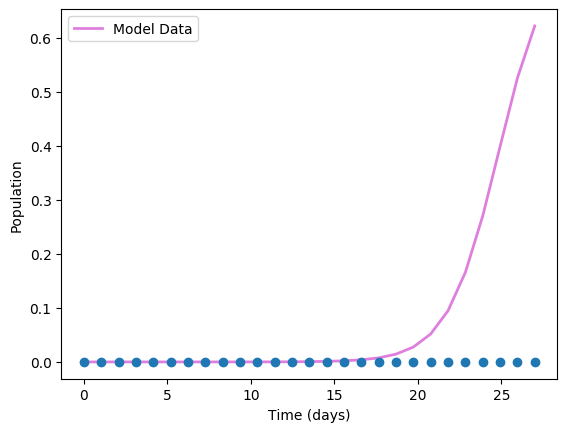
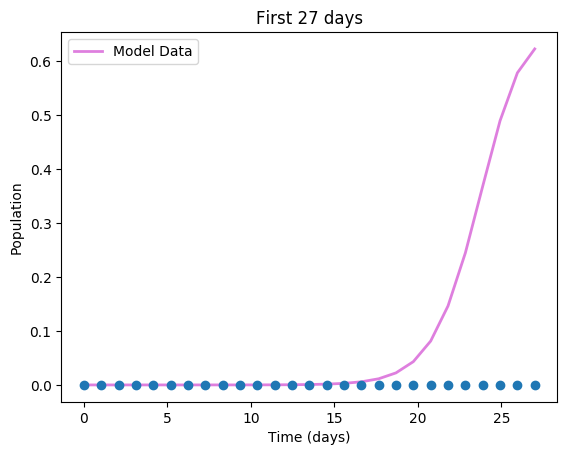
added temperature stuff

diff --git a/finalcode2.py b/finalcode2.py
@@ -44,116 +44,148 @@ Idata = Idata/P #scale down to be proportion
 S = np.zeros(dataLength)# initalize blank datasets
 I = np.zeros(dataLength)
 R = np.zeros(dataLength)
-S[0] = S0 # all except one are susceptible
+S[0] = S0 # all except one are susceptile
 I[0] = I0 # based on one case
 R[0] = R0 # all others fit in Recovered category
 # two initial guesses for what beta and gamma might be
+
 beta, gamma = 0.6, 1/12 # two initial guesses for what beta and gamma might be
+
 tau = 0 # because first case is when time=0
 fm = 0 # initialize the lsr variable
-T = 100 # intial temperature,arbitratily chosen
-consec = 0
-bestBeta = []
-bestGamma = []
-bestFit = []
+T = [100]*1001
+alpha = 0.7
+for j in range(0, 1000):
+    T[j+1] = T[j] *(alpha**(j+1))
+plt.figure()  # open the figure
+fig,ax = plt.subplots()
+iteration = np.linspace(0,1001, 1001) # iteration vector
+ax.plot(iteration[0:15], T[0:15]) # plot 
+ax.set_xlabel('Iteration') # set label, legend, title
+ax.set_ylabel('Temperature')
+plt.title('Temperature v Iteration')
+plt.savefig('Temp Graph.png', bbox_inches ='tight') # save the graph
+
+
+consec = 0 # variable to keep track of consecutive failutes
+bestBeta = [] # empty vector to add on the best betas
+bestGamma = [] # empty vector to add on the best gammas
+bestFit = [] # empty vector to add on the lowest LSE
+
+
+    
+
 
 for j in range(1000):
-    if consec < 700: # going thru 10000 trials
-        ret = odeint(deriv, y0, t, args=(beta, gamma))# add commas for more parameters
-        S, I, R = ret.T
-        for i in range(dataLength -1):
-            fm += abs((I.item(i+1)-Idata.item(i+1))**2) # square of the error of the fitted model
-        deltaBeta = .05 # step size
-        deltaGamma = .001 # step size
-        betaOrGamma = random.random() # number btwn 0 or 1 to see which step you will do
-        fhat = 0 # initalizing lsr for new beta or gamma value
-        if betaOrGamma< 0.25:
-            betaNew = beta + deltaBeta # add to beta
-            ret = odeint(deriv, y0, t, args=(betaNew, gamma))# add commas for more parameters
-            S, I, R = ret.T
-            for i in range(dataLength -1):
-                fhat += abs((I.item(i+1)-Idata.item(i+1))**2) # square of the error of the neighbors model
-                if fhat < fm:
-                    A = 1 # ACCEPT
-                    consec = 0
-                else:
-                    A = math.exp((fm-fhat)/T) # maybe accept
-                acceptanceProbability = random.random() # randomly chose acceptance probability
-                if acceptanceProbability< A:
-                    fm = fhat # then we have a new lsr
-                    beta = betaNew # and a new beta Value
-                    bestBeta.append(beta)
-                    bestGamma.append(gamma)
-                    bestFit.append(fm)
-                else:
-                    consec +=1
-        elif 0.5>betaOrGamma> 0.25 and beta > 0:  #added to remove all the bad negative estimates
-            betaNew = beta - deltaBeta # then subtract from beta
-            ret = odeint(deriv, y0, t, args=(betaNew, gamma))# add commas for more parameters
-            S, I, R = ret.T
-            for i in range(dataLength - 1):
-                fhat += abs((I.item(i+1)-Idata.item(i+1))**2) # square of the error of the neighbors model
-                if fhat < fm:
-                    A = 1 # then ACCEPT
-                else:
-                    A = math.exp((fm-fhat)/T) # THEN maybe accept
-                acceptanceProbability = random.random() # randomly chose acceptance probability
-                if acceptanceProbability< A:
-                    fm = fhat # adopt new lsr
-                    beta = betaNew # and a new beta value
-                    consec = 0
-                    bestBeta.append(beta)
-                    bestGamma.append(gamma)
-                    bestFit.append(fm)
-                else:
-                    consec +=1
-        elif 0.75>betaOrGamma> 0.5:
-            gammaNew = gamma + deltaGamma  # then add to gamma
-            ret = odeint(deriv, y0, t, args=(beta, gammaNew))# add commas for more parameters
-            S, I, R = ret.T
-            for i in range(dataLength - 1):
-                fhat += abs((I.item(i+1)-Idata.item(i+1))**2) # square of the error of the neighbors model
-                if fhat < fm:
-                    A = 1 # accept
-                    consec = 0
-                else:
-                    A = math.exp((fm-fhat)/T) # calculation of A is done wrong
-                acceptanceProbability = random.random() # randomly chose acceptance probability
-                if acceptanceProbability< A:
-                    fm = fhat
-                    gamma = gammaNew
-                    bestBeta.append(beta)
-                    bestGamma.append(gamma)
-                    bestFit.append(fm)
-                else:
-                    consec +=1
-        elif 1>betaOrGamma> 0.75 and gamma > 0: #added to remove all the bad negative estimates
-            gammaNew = gamma - deltaGamma # then subtract from gamma
-            ret = odeint(deriv, y0, t, args=(beta, gammaNew))# add commas for more parameters
-            S, I, R = ret.T
-            for i in range(dataLength - 1):
-                fhat += abs((I.item(i+1)-Idata.item(i+1))**2) # square of the error of the neighbors model
-                if fhat < fm:
-                    A = 1
-                    consec = 0
-                else:
-                    A = math.exp((fm-fhat)/T) # maybe accept, calculation of A is done wrong
-                acceptanceProbability = random.random() # randomly chose acceptance probability
-                if acceptanceProbability< A:
-                    fm = fhat # adopt new lsr and new gamma value
-                    gamma = gammaNew
-                    bestBeta.append(beta)
-                    bestGamma.append(gamma)
-                    bestFit.append(fm)
-                else:
-                    consec +=1
+    if T[j] > 0:
+        if consec < 700: # going thru 10000 trials
+            ret = odeint(deriv, y0, t, args=(beta, gamma)) # evaluate sir using the inital, or newest best guess
+            S, I, R = ret.T # store S,I, R
+            for i in range(dataLength -1): #calculate LSE for all of the data points, excluding the first one
+                fm += abs((I.item(i+1)-Idata.item(i+1))**2) # square of the error of the fitted model
+            deltaBeta = .05 # step size
+            deltaGamma = .001 # step size
+            betaOrGamma = random.random() # number btwn 0 or 1 to see which step you will do
+            fhat = 0 # initalizing lsr for new beta or gamma value
+            if betaOrGamma< 0.25:
+                betaNew = beta + deltaBeta # add to beta
+                ret = odeint(deriv, y0, t, args=(betaNew, gamma))# evaluate sir using newest beta value
+                S, I, R = ret.T # store S,I,R
+                for i in range(dataLength -1): # calculate LSE for all of the data points, excluding the first one
+                    fhat += abs((I.item(i+1)-Idata.item(i+1))**2) # square of the error of the neighbors model
+                    if fhat < fm:
+                        A = 1 # ACCEPT
+                        consec = 0
+                    else:
+                        A = math.exp((fm-fhat)/T[j]) # maybe accept
+                    acceptanceProbability = random.random() # randomly chose acceptance probability
+                    if acceptanceProbability< A:
+                        fm = fhat # then we have a new lsr
+                        beta = betaNew # and a new beta Value
+                        bestBeta.append(beta)
+                        bestGamma.append(gamma)
+                        bestFit.append(fm)
+                    else:
+                        consec +=1
+            elif 0.5>betaOrGamma> 0.25 and beta > 0:  #added to remove all the bad negative estimates
+                betaNew = beta - deltaBeta # then subtract from beta
+                ret = odeint(deriv, y0, t, args=(betaNew, gamma))# add commas for more parameters
+                S, I, R = ret.T
+                for i in range(dataLength - 1):
+                    fhat += abs((I.item(i+1)-Idata.item(i+1))**2) # square of the error of the neighbors model
+                    if fhat < fm:
+                        A = 1 # then ACCEPT
+                    else:
+                        A = math.exp((fm-fhat)/T[j]) # THEN maybe accept
+                    acceptanceProbability = random.random() # randomly chose acceptance probability
+                    if acceptanceProbability< A:
+                        fm = fhat # adopt new lsr
+                        beta = betaNew # and a new beta value
+                        consec = 0
+                        bestBeta.append(beta)
+                        bestGamma.append(gamma)
+                        bestFit.append(fm)
+                    else:
+                        consec +=1
+            elif 0.75>betaOrGamma> 0.5:
+                gammaNew = gamma + deltaGamma  # then add to gamma
+                ret = odeint(deriv, y0, t, args=(beta, gammaNew))# add commas for more parameters
+                S, I, R = ret.T
+                for i in range(dataLength - 1):
+                    fhat += abs((I.item(i+1)-Idata.item(i+1))**2) # square of the error of the neighbors model
+                    if fhat < fm:
+                        A = 1 # accept
+                        consec = 0
+                    else:
+                        A = math.exp((fm-fhat)/T[j]) # calculation of A is done wrong
+                    acceptanceProbability = random.random() # randomly chose acceptance probability
+                    if acceptanceProbability< A:
+                        fm = fhat
+                        gamma = gammaNew
+                        bestBeta.append(beta)
+                        bestGamma.append(gamma)
+                        bestFit.append(fm)
+                    else:
+                        consec +=1
+            elif 1>betaOrGamma> 0.75 and gamma > 0: #added to remove all the bad negative estimates
+                gammaNew = gamma - deltaGamma # then subtract from gamma
+                ret = odeint(deriv, y0, t, args=(beta, gammaNew))# add commas for more parameters
+                S, I, R = ret.T
+                for i in range(dataLength - 1):
+                    fhat += abs((I.item(i+1)-Idata.item(i+1))**2) # square of the error of the neighbors model
+                    if fhat < fm:
+                        A = 1
+                        consec = 0
+                    else:
+                        A = math.exp((fm-fhat)/T[j]) # maybe accept, calculation of A is done wrong
+                    acceptanceProbability = random.random() # randomly chose acceptance probability
+                    if acceptanceProbability< A:
+                        fm = fhat # adopt new lsr and new gamma value
+                        gamma = gammaNew
+                        bestBeta.append(beta)
+                        bestGamma.append(gamma)
+                        bestFit.append(fm)
+                    else:
+                        consec +=1
+
+
+# Getting the best of the best, which doesnt depend on the end point
+
 index = bestFit.index(min(bestFit)) # find day where number of infections is highest
-bestBESTbeta = bestBeta[index]
-bestBESTgamma = bestGamma[index]
-print(bestBESTbeta, bestBESTgamma, min(bestFit))
-ret = odeint(deriv, y0, t, args=(bestBESTbeta, bestBESTgamma))# add commas for more parameters
-S, I, R = ret.T
+bestBESTbeta = bestBeta[index] # finding best of bestBeta
+bestBESTgamma = bestGamma[index] # finding best of best gamma
+print(bestBESTbeta, bestBESTgamma, min(bestFit)) # reporting the best best parameters
+# and their corresponding error
+
+
+
+#Evaluate SIR using best parameters, and dead using the estimate of death rate
+ret = odeint(deriv, y0, t, args=(bestBESTbeta, bestBESTgamma))
+S, I, R = ret.T # solve for S, I, R, using best best parameters
 Dead = 3/41 * R # using average death rate from the observed data
+
+
+
 # Plot the data on three separate curves for S(t), I(t) and R(t)
 plt.figure()  # open the figure
 fig,ax = plt.subplots()
@@ -164,6 +196,8 @@ ax.plot(realTime,Idata, 'o')
 ax.set_xlabel('Time (days)')
 ax.set_ylabel('Population')
 legend = ax.legend(loc = 'upper left')
+plt.title('First 27 days')
+
 plt.savefig('SimAnnealing.png', bbox_inches ='tight')
 
 
@@ -173,27 +207,32 @@ plt.figure()  # open the figure
 fig,ax = plt.subplots()
 ax.plot(realTime,Idata, 'o')
 plt.savefig('realCurve.png', bbox_inches ='tight')
-T =  np.linspace(0, 160, 160)
-ret = odeint(deriv, y0, T, args=(bestBESTbeta, bestBESTgamma))# add commas for more parameters
+Time =  np.linspace(0, 160, 160)
+ret = odeint(deriv, y0, Time, args=(bestBESTbeta, bestBESTgamma))# add commas for more parameters
 S, I, R = ret.T
 Dead = 3/41 * R # using average death rate from the observed data
+
 # Plot the data on three separate curves for S(t), I(t) and R(t)
 plt.figure()  # open the figure
 fig,ax = plt.subplots()
 realTime = np.linspace(0,dataLength, dataLength) # time vector
 Idata = Idata.transpose()
-ax.plot(T, S, 'b', alpha=0.5, lw=2, label='Susceptible') # plot all the different lines
-ax.plot(T, I, 'm', alpha=0.5, lw=2, label='Infected')
-ax.plot(T, Dead, 'r', alpha=0.5, lw=2, label='Dead')
-ax.plot(T, R, 'g', alpha=0.5, lw=2, label='Recovered with immunity or Dead')
+ax.plot(Time, S, 'b', alpha=0.5, lw=2, label='Susceptible') # plot all the different lines
+ax.plot(Time, I, 'm', alpha=0.5, lw=2, label='Infected')
+ax.plot(Time, Dead, 'r', alpha=0.5, lw=2, label='Dead')
+ax.plot(Time, R, 'g', alpha=0.5, lw=2, label='Recovered with immunity or Dead')
 ax.set_xlabel('Time (days)') # set label, legend, title
 ax.set_ylabel('Population')
 legend = ax.legend(loc = 'upper left')
+plt.title('Estimated SIR Model Using Best Guesses')
 plt.savefig('SimAnnealing160days.png', bbox_inches ='tight') # save the graph
+
 Ilist = I.tolist() # reformatting to eliminate bugs
 maxIday = Ilist.index(max(I)) # find day where number of infections is highest
 maxDeath = max(Dead)*P
 maxCases = max(I)*P
+
+# printing relevant data parameters for the user
 print('On day %d, the number of infections is the highest. ' %maxIday)
 print('The maximum number of deaths is %d. ' %maxDeath)
 print('The maximum number of cases is %d. ' %maxCases)
